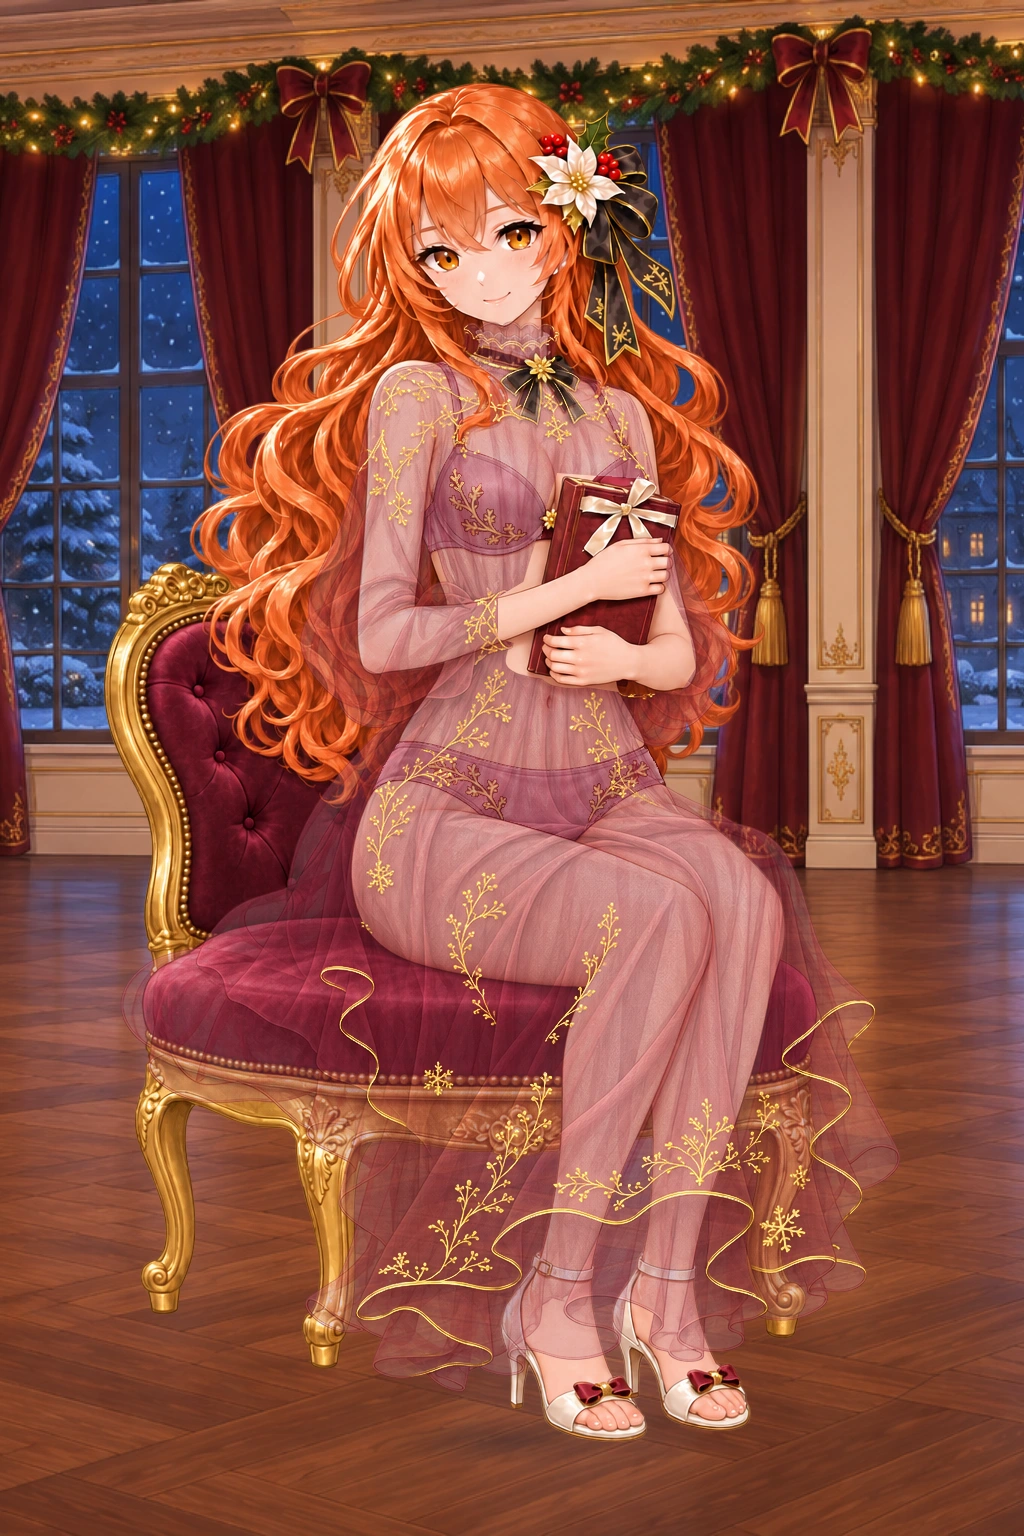
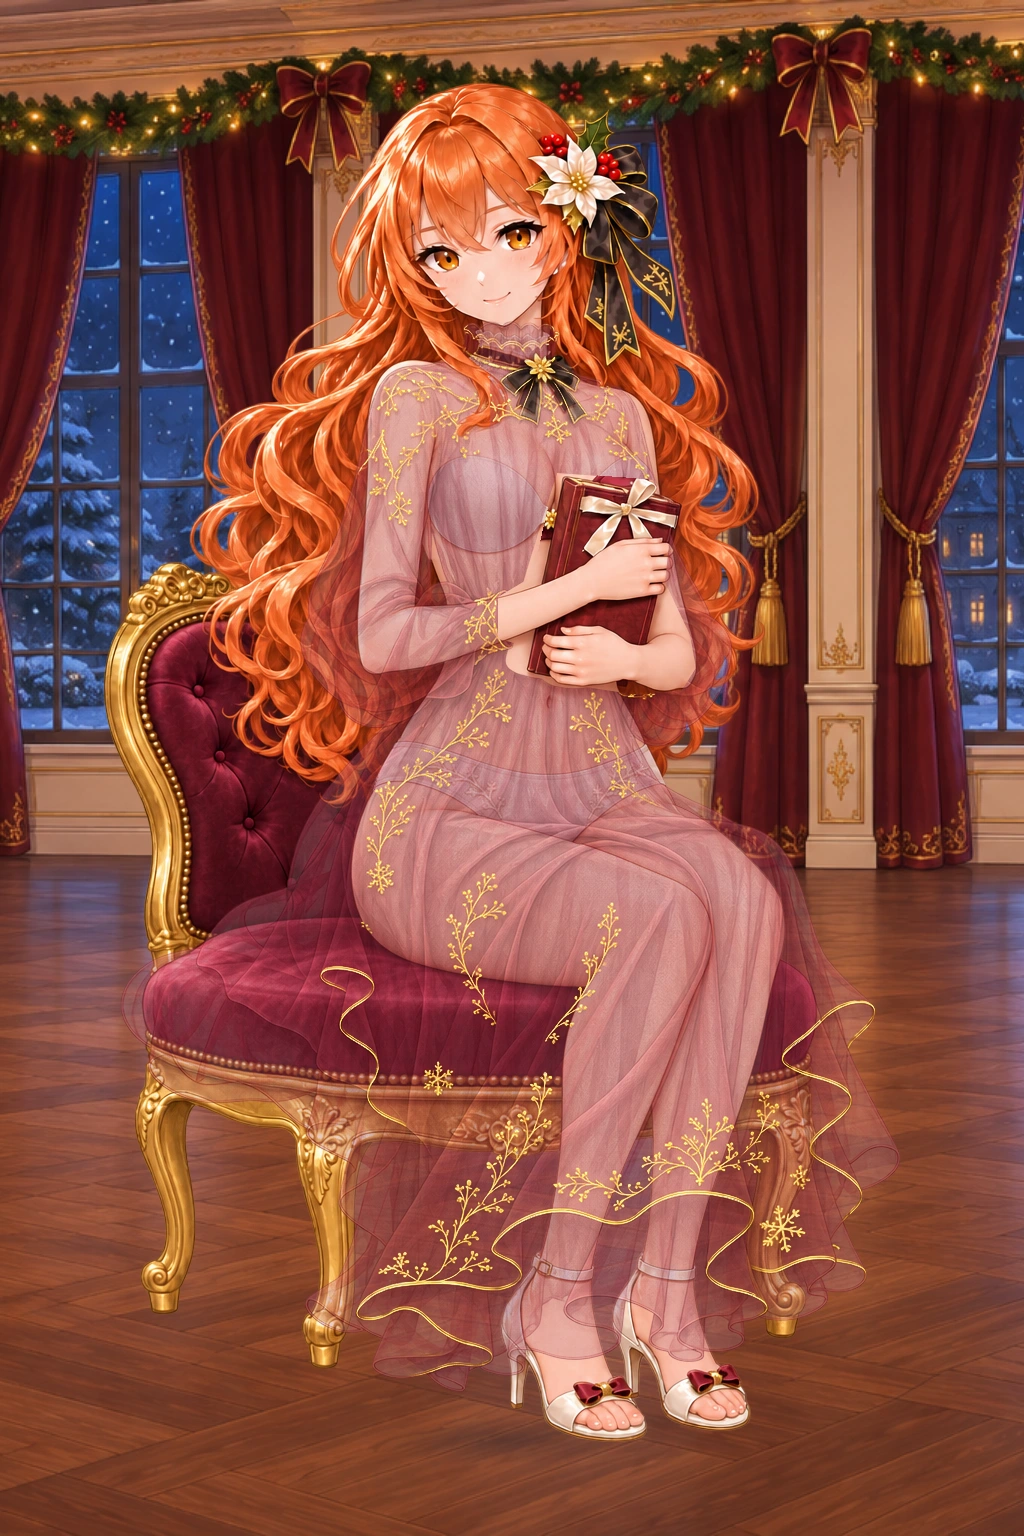
art: finalize Claude's pale strapless underlayer

Changed region(s): [[0.375, 0.4688, 0.6562, 0.5625], [0.4062, 0.25, 0.5312, 0.375], [0.5625, 0.25, 0.625, 0.3125]]

diff --git a/web/src/gacha-preview/assets/claude-chiffon/NOTICE.md b/web/src/gacha-preview/assets/claude-chiffon/NOTICE.md
@@ -8,9 +8,9 @@ The body and garment were generated with OpenAI's built-in image generation
 tool on 2026-11-13, from the project's retained Claude artwork. The body wears
 opaque matching underwear. The garment-only source contains no anatomy or
 underwear; its fabric alpha is calibrated separately from the golden stitching.
-The adopted underwear palette was softened to opaque dusty rose on 2026-11-13.
-Only registered fabric pixels take the generated color refinement; the original
-skin, gold embroidery, pose and outer gown are retained.
+The final inner garments use opaque pale rose beige, with a strapless front-clasp
+bra and matching briefs. Their registered edit preserves the original pose,
+hands, book and outer gown, including the gown's golden embroidery.
 The front occlusion layer retains source pixels for the hands, book and selected
 hair. All four WebP files share a native 1024 × 1536 canvas.
 
